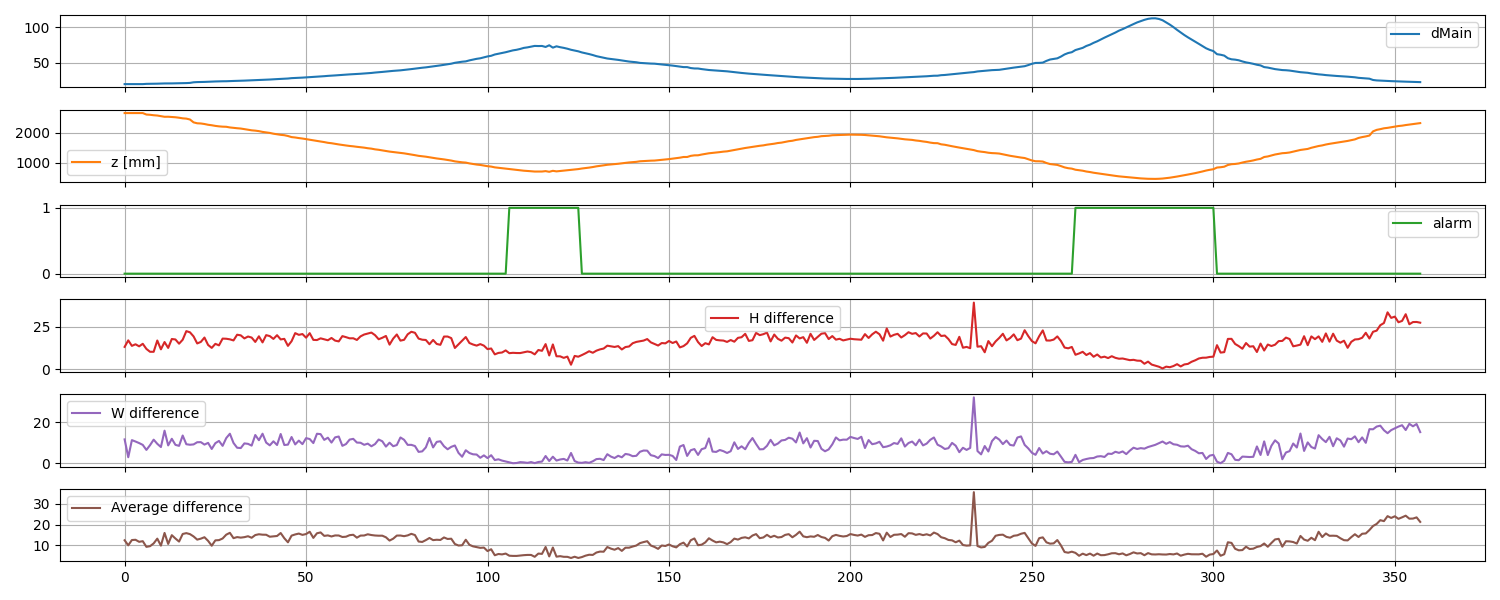
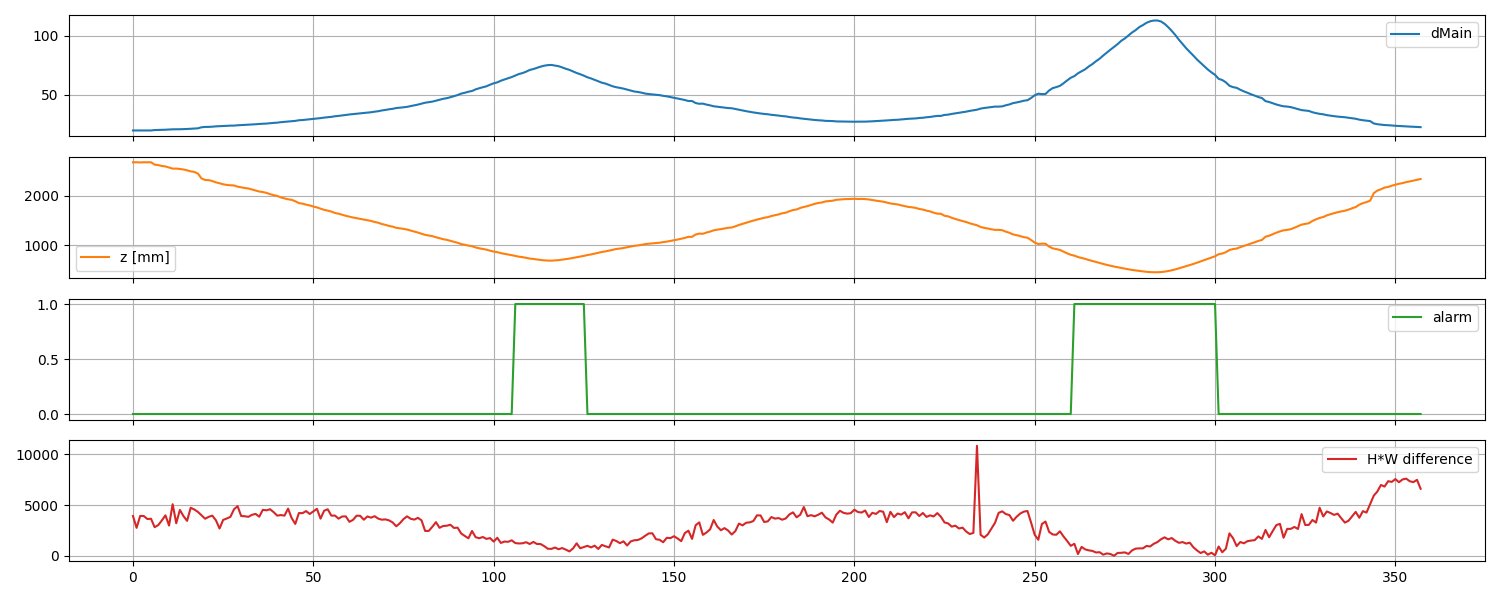
last version with comments

diff --git a/main.py b/main.py
@@ -13,18 +13,17 @@ def main(videoL, videoR,showFrame = False, showDisparity = False, showChess = Tr
 
     try:
         
-        df = pd.DataFrame(columns = ['dMain','z [mm]','alarm','H difference','W difference', 'Average difference'])
+        #initialization of variables useful later
+        df = pd.DataFrame(columns = ['dMain','z [mm]','alarm', 'H*W difference'])
 
         num_frame = 0
         dh = 0
         dw = 0
-        
-        alarm_range = []
-        start_alarm = 0
-        prec_alarm = 0
 
+        #run the body of the while loop until have finished examining each frame of the video
         while(videoL.isOpened() and videoR.isOpened()):
-            #extract frames
+
+            #extract frames from video
             retL, frameL = videoL.read()
             retR, frameR = videoR.read()
             
@@ -34,60 +33,56 @@ def main(videoL, videoR,showFrame = False, showDisparity = False, showChess = Tr
                 videoR.release()
                 break
             
+            #convert the frame using cv2.COLOR_BGR2GRAY color space
             imgL= cv2.cvtColor(frameL, cv2.COLOR_BGR2GRAY)
             imgR= cv2.cvtColor(frameR, cv2.COLOR_BGR2GRAY)
             
-            #compute disparity map in a central area of the reference frame (100x100 pixels)
+            #compute disparity map in a central area of the reference frame (default 80x80 pixels)
             disparity = disp.computeDisparityMap(imgL, imgR, showDisparity)
 
-            #estimate main disparity of the frame
+            #estimate the distance z from the obstacle (zFrame) and the mean disparity (dmain) of the frame from disparity map
             zFrame, dmain = disp.distanceZframe(disparity) #mm
 
-            #print distance and show the frame
+            #print distance and show the frame if showFrame=True (default = False)
             if showFrame:
                 title = "frame "+str(num_frame)+":\ndistance="+str(zFrame)+" ; dmain="+str(dmain)
                 u.imshow("VideoL",title, imgL)
 
             #verify if the distance zFrame[mm] is below 800mm
             if zFrame <= c.MIN_DIST:
-                #save number of frame
                 print("The distance from camera to the obstable is minus then", c.MIN_DIST,"m :   ",zFrame)
+                #if the condition is verified then we are in an alarm state, set the alarm variable to 1
                 alarm = 1
             else:
                 alarm = 0           
                 
             #Find chessboard & Compute dimension of the chessboard
             ret, wL,hL = chess.chessboard(imgL, showChess)
+            #ret = True if the chessboard was found;
+            #wL and hL indicate the estimated size of the chessboard in pixels.
             
-            #if chessboard was found
+            #if chessboard was found:
             if(ret == True):
-                
-                #Compare the size of the chessboard computed with the real ones
+                #compute estimated dimension of the chessboard from pixel to mm
                 z_mm = zFrame
                 W_mm = (z_mm*wL)/c.F
                 H_mm = (z_mm*hL)/c.F
-                
-                dw = abs(c.REAL_W-W_mm)
-                dh = abs(c.REAL_H-H_mm)
+                dim_mm = W_mm*H_mm
 
+                #Compare the size of the chessboard computed with the real ones
+                '''dw = abs(c.REAL_W-W_mm)
+                dh = abs(c.REAL_H-H_mm)'''
+                dd = abs(c.REAL_DIM-dim_mm)
+
+                #create output plot
                 output = {
                             'dMain': dmain,
                             'z [mm]': zFrame,
                             'alarm': alarm,
-                            'H difference': dh,
-                            'W difference': dw,
-                            'Average difference': (dh+dw)/2
+                            'H*W difference':dd
                             }
                 df.loc[len(df)] = output
 
-                if alarm == 1:
-                    if prec_alarm == 0:
-                        start_alarm = num_frame
-                    prec_alarm = 1
-                else:
-                    if prec_alarm == 1:
-                        alarm_range.append([start_alarm, num_frame-1])
-                    prec_alarm=0
                 num_frame += 1 
                 
     except KeyboardInterrupt:
@@ -96,27 +91,6 @@ def main(videoL, videoR,showFrame = False, showDisparity = False, showChess = Tr
         videoR.release()
         print("Released Video Resource")
 
-    general_differenceH = []
-    general_differenceW = []
-    general_difference = []
-
-    for i in range(len(alarm_range)):
-        sum = 0
-        sumH = 0
-        sumW = 0
-        num = 0
-        for n in (alarm_range[i][0], alarm_range[i][1], 1):
-            sum += df['Average difference'][n]
-            sumH += df['H difference'][n]
-            sumW += df['W difference'][n]
-            num += 1
-        general_difference.append(sum/num)
-        general_differenceH.append(sumH/num)
-        general_differenceW.append(sumW/num)
-    print(alarm_range)
-    print("difference between computed and real: ", general_difference)
-    print("H difference between computed and real: ", general_differenceH)
-    print("W difference between computed and real: ", general_differenceW)
 
 
     # plotting dataframe
@@ -128,8 +102,7 @@ def main(videoL, videoR,showFrame = False, showDisparity = False, showChess = Tr
 
     
 if __name__ == "__main__":
-    #args = u.getParams()
-
+    #capturing from video files
     videoL = cv2.VideoCapture(c.video_pathL)
     videoR = cv2.VideoCapture(c.video_pathR)
 

diff --git a/disparityMap.py b/disparityMap.py
@@ -21,13 +21,17 @@ def distanceZframe(disparity):
     
     return z, d
 
-def computeDisparityMap(imgL, imgR, showDisparity=False, numDisp=128, blockSize=83, interval=50):
+def computeDisparityMap(imgL, imgR, showDisparity=False, numDisp=128, blockSize=83, interval=40):
 
     #initialize stereo disparity
     stereoMatcher = cv2.StereoBM_create(numDisparities=numDisp, blockSize=blockSize)
     
     #compute disparity map: gray or colour
     disparity = stereoMatcher.compute(imgL, imgR)
+
+    #show disparity frame 
+    if showDisparity:
+        utils.imshow("Disparity","Disparity map", disparity)
 
     #take only central frames
     center = imgL.shape
@@ -36,10 +40,6 @@ def computeDisparityMap(imgL, imgR, showDisparity=False, numDisp=128, blockSize=
 
     disparity = disparity[centerY-interval:centerY+interval, centerX-interval:centerX+interval]
 
-    #print("Disparity range:{ ", disparity.min()," , ",disparity.max()," }")
-
-    #show disparity frame 
-    if showDisparity:
-        utils.imshow("Disparity","Disparity map", disparity)
+    
 
     return disparity

diff --git a/chessboardRecognition.py b/chessboardRecognition.py
@@ -7,13 +7,12 @@ import utils as u
 def chessboard(img, showChess=False):
     w=0
     h=0
+
     #find chessboard 
     ret,corners = cv2.findChessboardCorners(img ,c.pattern_size)
 
     
     if ret == True:
-        #criteria = (cv2.TERM_CRITERIA_EPS + cv2.TERM_CRITERIA_MAX_ITER, 30, 0.0001)
-        #corners = cv2.cornerSubPix(img,corners,(15,15),(3,3),criteria)
 
         #display the pixel coordinates of the internal corners of the chessboard
         cv2.drawChessboardCorners(img, c.pattern_size, corners, ret)
@@ -23,7 +22,6 @@ def chessboard(img, showChess=False):
             u.imshow("Chessboard", "Chessboard", img)
     
         #compute pixel dimention of chessboard
-        #w = abs(corners[c.NUM_H*(c.NUM_W-1)][0][0]-corners[0][0][0])
         w = abs(corners[c.NUM_H-1][0][0]-corners[corners.shape[0]-1][0][0])
         h = abs(corners[c.NUM_H-1][0][1]-corners[0][0][1])
 

diff --git a/constant.py b/constant.py
@@ -7,7 +7,7 @@ video_pathR = 'robot-navigation-video/robotR.avi'
 F = 567.2 #pixel
 B = 92.226 #mm
 
-#alarm distance (in meters)
+#alarm distance (in millimeters)
 MIN_DIST = 800
 
 #chessboard parameters
@@ -15,6 +15,7 @@ NUM_H = 8
 NUM_W = 6
 pattern_size = (NUM_H, NUM_W)
 
-#real chessboard dimension
+#real chessboard dimension (in millimeters)
 REAL_H = 178
 REAL_W = 125
+REAL_DIM = (REAL_H*REAL_W)
